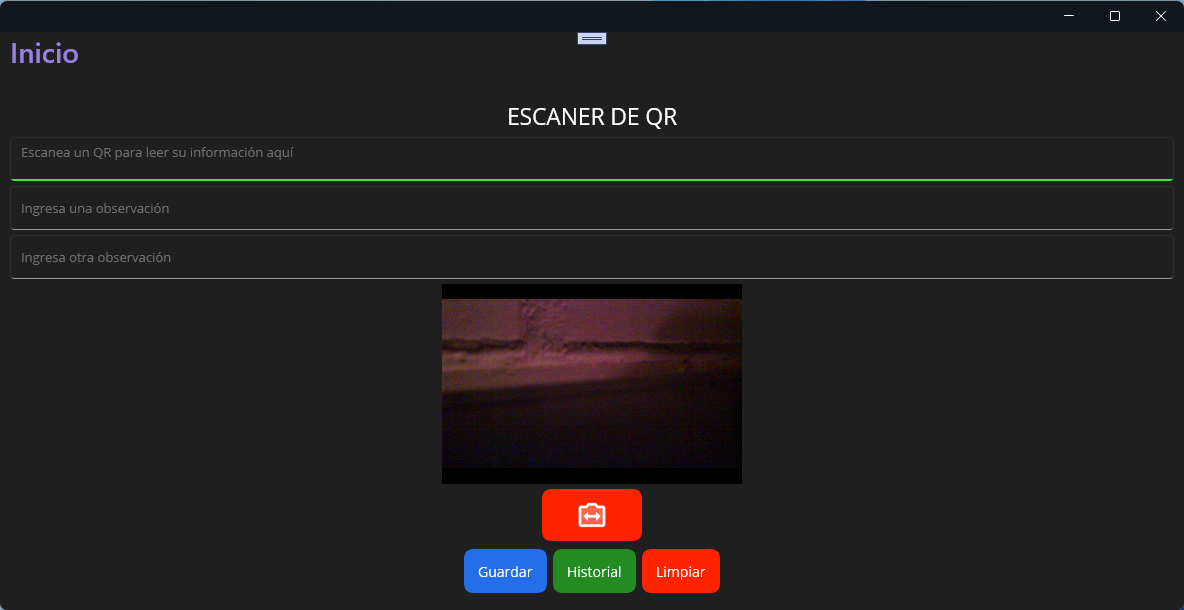
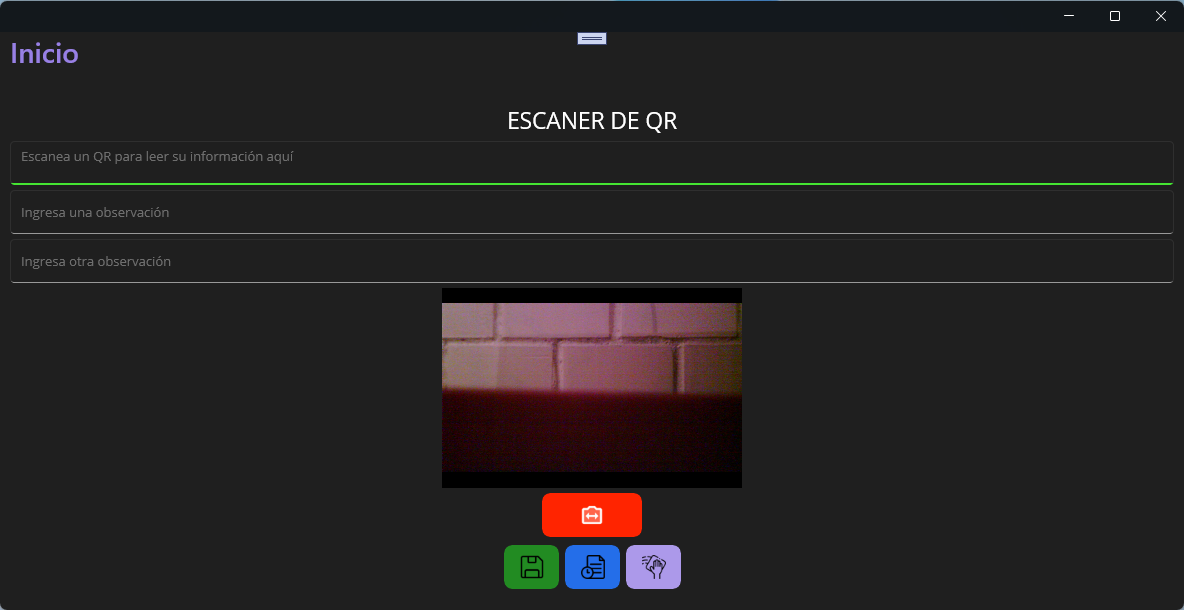
First commit de la rama Buena

diff --git a/EscanerEquipos/MainPage.xaml b/EscanerEquipos/MainPage.xaml
@@ -17,9 +17,9 @@
                            BarCodeDetectionEnabled="True" 
                            BarcodeDetected="cameraView_BarcodeDetected"/>
 
-            <Button Clicked="ToggleCamera_Clicked" TextColor="White" BackgroundColor="#FF2400"
-                    WidthRequest="120" HeightRequest="50"
-                    ToolTipProperties.Text="Cambiar cámara">
+            <Button Clicked="ToggleCamera_Clicked" 
+                    BackgroundColor="#FF2400" 
+                    WidthRequest="100" HeightRequest="40" ToolTipProperties.Text="Cambiar cámara">
                 <Button.ImageSource>
                     <FileImageSource File="togglecam.png"/>
                 </Button.ImageSource>
@@ -32,7 +32,7 @@
                 </Grid.RowDefinitions>
 
                 <StackLayout HorizontalOptions="CenterAndExpand" Orientation="Horizontal" Grid.Row="0">
-                    <Button Clicked="Guardar_Clicked" BackgroundColor="ForestGreen" TextColor="White" Margin="3" 
+                    <Button Clicked="Guardar_Clicked" BackgroundColor="ForestGreen" Margin="3" 
                     WidthRequest="55" HeightRequest="40" 
                     ToolTipProperties.Text="Guardar datos">
                         <Button.ImageSource>
@@ -40,15 +40,21 @@
                         </Button.ImageSource>
                     </Button>
 
-                    <Button Clicked="Limpiar_Clicked" TextColor="White" BackgroundColor="#246EE9" Margin="3" 
+                    <Button Clicked="Historia_Clicked" BackgroundColor="#246EE9" Margin="3" 
+                    WidthRequest="55" HeightRequest="40" 
+                    ToolTipProperties.Text="Historial de QR escaneados">
+                        <Button.ImageSource>
+                            <FileImageSource File="history.png"/>
+                        </Button.ImageSource>
+                    </Button>
+
+                    <Button Clicked="Limpiar_Clicked" Margin="3" 
                     WidthRequest="55" HeightRequest="40" 
                     ToolTipProperties.Text="Limpiar campos">
                         <Button.ImageSource>
                             <FileImageSource File="clean.png"/>
                         </Button.ImageSource>
                     </Button>
-                    
-                    <!-- <Button Text="Historial" Clicked="Historia_Clicked" BackgroundColor="ForestGreen" TextColor="White" Margin="3"/> -->
                 </StackLayout>
 
             </Grid>

diff --git a/EscanerEquipos/AppShell.xaml b/EscanerEquipos/AppShell.xaml
@@ -4,19 +4,11 @@
     xmlns="http://schemas.microsoft.com/dotnet/2021/maui"
     xmlns:x="http://schemas.microsoft.com/winfx/2009/xaml"
     xmlns:local="clr-namespace:EscanerEquipos"
-    xmlns:views="clr-namespace:EscanerEquipos.Views"
-    Shell.FlyoutBehavior="Flyout" BackgroundColor="#482fa1">
+    Shell.FlyoutBehavior="Disabled">
 
     <ShellContent
         Title="Inicio"
         ContentTemplate="{DataTemplate local:MainPage}"
-        Route="MainPage" 
-        Icon="home1.png"/>
-
-    <ShellContent
-        Title="Historial"
-        ContentTemplate="{DataTemplate views:ScanHistoryPage}"
-        Route="ScanHistoryPage" 
-        Icon="history1.png"/>
+        Route="MainPage" />
 
 </Shell>

diff --git a/EscanerEquipos/MainPage.xaml.cs b/EscanerEquipos/MainPage.xaml.cs
@@ -1,4 +1,5 @@
-using System.Collections.ObjectModel;
+using EscanerEquipos.Views;
+using System.Collections.ObjectModel;
 using System.Globalization;
 
 namespace EscanerEquipos
@@ -39,38 +40,6 @@ namespace EscanerEquipos
                 }
             }
         }
-        protected override async void OnAppearing()
-        {
-            base.OnAppearing();
-
-            // Asegúrate de que el CameraView está inicializado y tiene cámaras disponibles
-            if (cameraView != null && cameraView.Cameras.Count > 0)
-            {
-                // Detiene la cámara si está activa y la reinicia
-                await cameraView.StopCameraAsync();
-                await cameraView.StartCameraAsync();
-            }
-        }
-
-        private SemaphoreSlim cameraSemaphore = new SemaphoreSlim(1, 1);
-
-        protected override async void OnDisappearing()
-        {
-            await cameraSemaphore.WaitAsync();
-            try
-            {
-                base.OnDisappearing();
-                if (cameraView != null)
-                {
-                    await cameraView.StopCameraAsync();
-                }
-            }
-            finally
-            {
-                cameraSemaphore.Release();
-            }
-        }
-
 
         private void cameraView_CamerasLoaded(object sender, EventArgs e)
         {
@@ -88,6 +57,7 @@ namespace EscanerEquipos
                 });
             }
         }
+
 
         private int currentCameraIndex = 0;
 
@@ -110,7 +80,7 @@ namespace EscanerEquipos
             }
             else
             {
-                DisplayAlert("Cambio de cámara", "No hay cámaras disponibles en el dispositivo para cambiar. Reinicia la app si conectaste una cámara", "OK");
+                DisplayAlert("Cambio de cámara", "No hay cámaras disponibles en el dispositivo para cambiar.", "OK");
             }
         }
 
@@ -133,7 +103,7 @@ namespace EscanerEquipos
                 else
                 {
                     // Mostrar una alerta en caso de que no se haya detectado ningún código de barras válido
-                    DisplayAlert("Error", "Escaneo erróneo", "OK");
+                    DisplayAlert("Detalles del escaneo", "Escaneo erróneo", "OK");
                 }
             });
         }
@@ -170,15 +140,13 @@ namespace EscanerEquipos
                 barcodeEntry.Text = "";
                 manualEntry.Text = "";
                 manual2Entry.Text = "";
-
-                DisplayAlert("Guardar", "El contenido ha sido guardado en el historial.", "OK");
             }
         }
 
-        /*private async void Historia_Clicked(object sender, EventArgs e)
+        private async void Historia_Clicked(object sender, EventArgs e)
         {
             await Navigation.PushAsync(new ScanHistoryPage());
-        }*/
+        }
 
         private void Limpiar_Clicked(object sender, EventArgs e)
         {

diff --git a/EscanerEquipos/Platforms/Windows/App.xaml.cs b/EscanerEquipos/Platforms/Windows/App.xaml.cs
@@ -1,4 +1,6 @@
-// To learn more about WinUI, the WinUI project structure,
+using Microsoft.UI.Xaml;
+
+// To learn more about WinUI, the WinUI project structure,
 // and more about our project templates, see: http://aka.ms/winui-project-info.
 
 namespace EscanerEquipos.WinUI

diff --git a/EscanerEquipos/Platforms/MacCatalyst/Program.cs b/EscanerEquipos/Platforms/MacCatalyst/Program.cs
@@ -1,4 +1,5 @@
-using UIKit;
+using ObjCRuntime;
+using UIKit;
 
 namespace EscanerEquipos
 {

diff --git a/EscanerEquipos/Platforms/iOS/Program.cs b/EscanerEquipos/Platforms/iOS/Program.cs
@@ -1,4 +1,5 @@
-using UIKit;
+using ObjCRuntime;
+using UIKit;
 
 namespace EscanerEquipos
 {
